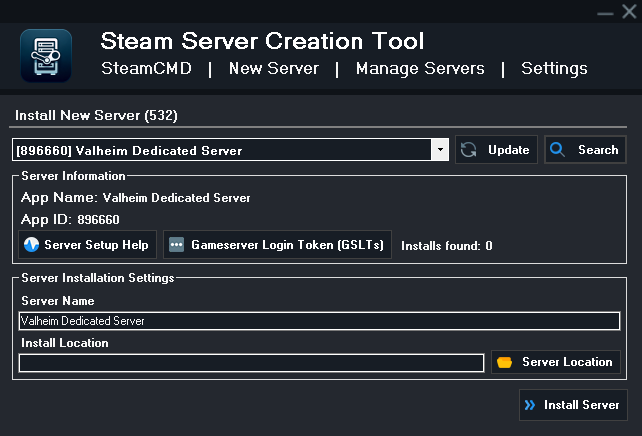
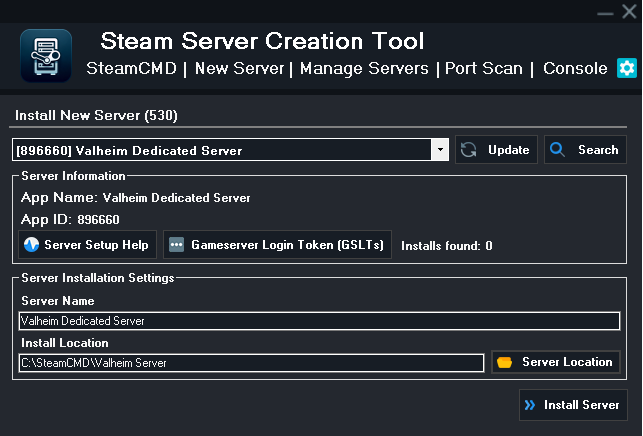
Updates to screenshots

diff --git a/Steam Server Creation Tool V2/Properties/Resources.Designer.cs b/Steam Server Creation Tool V2/Properties/Resources.Designer.cs
@@ -223,6 +223,16 @@ namespace Steam_Server_Creation_Tool_V2.Properties {
         /// <summary>
         ///   Looks up a localized resource of type System.Drawing.Bitmap.
         /// </summary>
+        internal static System.Drawing.Bitmap ConsoleWindow {
+            get {
+                object obj = ResourceManager.GetObject("ConsoleWindow", resourceCulture);
+                return ((System.Drawing.Bitmap)(obj));
+            }
+        }
+        
+        /// <summary>
+        ///   Looks up a localized resource of type System.Drawing.Bitmap.
+        /// </summary>
         internal static System.Drawing.Bitmap Donate {
             get {
                 object obj = ResourceManager.GetObject("Donate", resourceCulture);
@@ -286,6 +296,16 @@ namespace Steam_Server_Creation_Tool_V2.Properties {
         internal static System.Drawing.Bitmap NewServer {
             get {
                 object obj = ResourceManager.GetObject("NewServer", resourceCulture);
+                return ((System.Drawing.Bitmap)(obj));
+            }
+        }
+        
+        /// <summary>
+        ///   Looks up a localized resource of type System.Drawing.Bitmap.
+        /// </summary>
+        internal static System.Drawing.Bitmap PortScan {
+            get {
+                object obj = ResourceManager.GetObject("PortScan", resourceCulture);
                 return ((System.Drawing.Bitmap)(obj));
             }
         }
